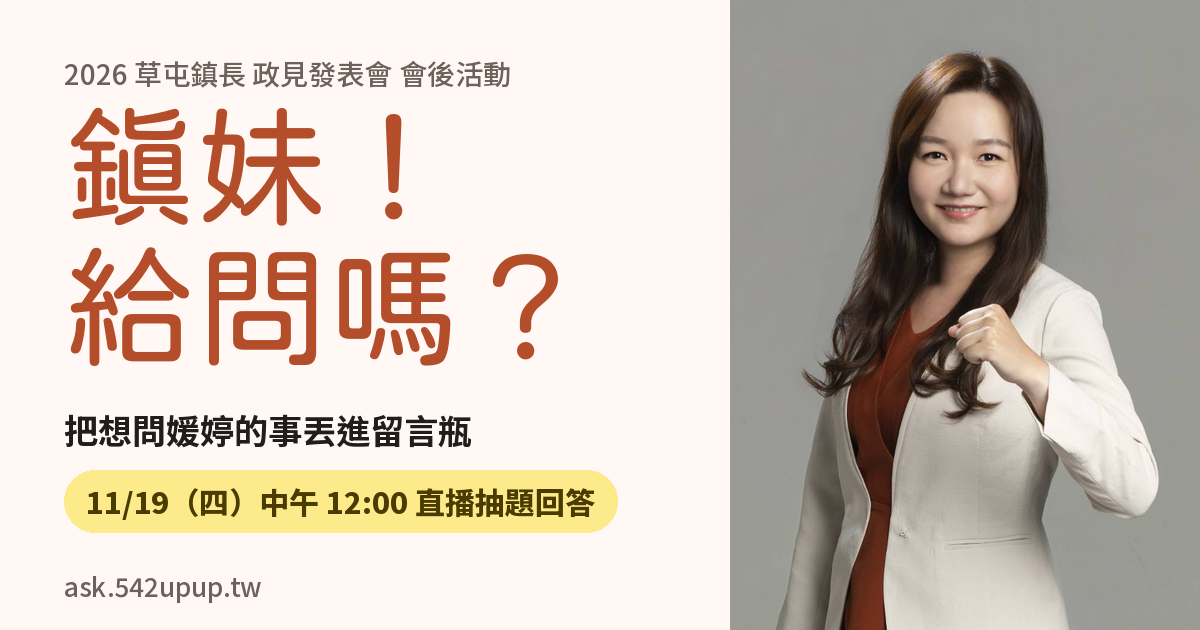
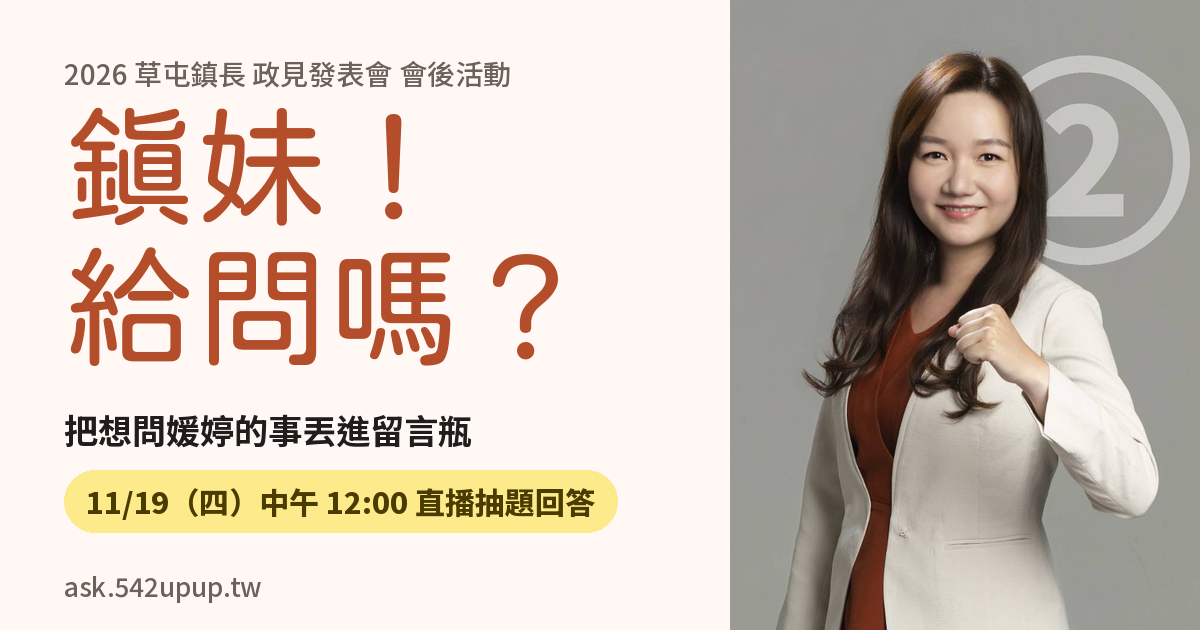
feat(ask): 分享預覽圖的形象照背景押號次②浮水印
用 GrabCut 把人物摳出來，白色②只畫在背景，放在右上方被頭髮半遮住，看起來在人物後面。

Claude-Session: https://claude.ai/code/session_018Xx2dF2Xmc5MBaDtE18Lzu

Changed region(s): [[0.8325, 0.0905, 1.0, 0.4222]]

diff --git a/scripts/make-ask-og.py b/scripts/make-ask-og.py
@@ -1,10 +1,13 @@
 """產生鎮妹給問嗎的分享預覽圖 ask-og.png（1200x630）。
 用法：python3 scripts/make-ask-og.py <candidate-hero.jpeg> ask-og.png
 照片取自 https://542upup.tw/candidate-hero.jpeg；字型用本機 ~/Library/Fonts 的 jf-openhuninn-2.1.ttf 與 NotoSansTC-VF.ttf。
+照片背景押號次②浮水印：用 OpenCV GrabCut 把人物摳出來，浮水印只畫在背景，看起來在人物後面。需要 numpy、opencv-python（AITeam venv 有）。
 """
 import sys
 from pathlib import Path
-from PIL import Image, ImageDraw, ImageFont
+import numpy as np
+import cv2
+from PIL import Image, ImageDraw, ImageFont, ImageFilter
 
 FONTS = Path.home() / 'Library/Fonts'
 HUNINN = str(FONTS / 'jf-openhuninn-2.1.ttf')
@@ -26,6 +29,41 @@ def noto(size, weight):
     return f
 
 
+def person_mask(rgb):
+    """GrabCut 摳出人物，回傳 L 模式遮罩（人物 255）。照片是單色灰背景，框住中間就夠準。"""
+    a = cv2.cvtColor(np.array(rgb), cv2.COLOR_RGB2BGR)
+    mask = np.zeros(a.shape[:2], np.uint8)
+    bgd = np.zeros((1, 65), np.float64)
+    fgd = np.zeros((1, 65), np.float64)
+    cv2.grabCut(a, mask, (100, 40, 760, a.shape[0] - 41), bgd, fgd, 6, cv2.GC_INIT_WITH_RECT)
+    fg = np.where((mask == 1) | (mask == 3), 255, 0).astype(np.uint8)
+    n, lab, stats, _ = cv2.connectedComponentsWithStats(fg)
+    fg = np.where(lab == 1 + np.argmax(stats[1:, cv2.CC_STAT_AREA]), 255, 0).astype(np.uint8)
+    inv = cv2.bitwise_not(fg)
+    n, lab, stats, _ = cv2.connectedComponentsWithStats(inv)
+    for i in range(1, n):  # 補掉人物內部被當成背景的洞（不碰邊的區塊）
+        x, y, w, h, _ = stats[i]
+        if x > 0 and y > 0 and x + w < inv.shape[1] and y + h < inv.shape[0]:
+            fg[lab == i] = 255
+    return Image.fromarray(fg).filter(ImageFilter.GaussianBlur(1.2))
+
+
+def number_watermark(photo, cx, cy, d, alpha):
+    """在照片背景畫白色號次②（圓圈＋2），人物擋住的部分不畫。座標以 photo 尺寸計。"""
+    layer = Image.new('L', photo.size, 0)
+    dr = ImageDraw.Draw(layer)
+    w = round(d * 0.075)
+    dr.ellipse((cx - d / 2 + w / 2, cy - d / 2 + w / 2, cx + d / 2 - w / 2, cy + d / 2 - w / 2), outline=255, width=w)
+    f = noto(round(d * 0.66), 900)
+    l, t, r, b = dr.textbbox((0, 0), '2', font=f)
+    dr.text((cx - (l + r) / 2, cy - (t + b) / 2), '2', font=f, fill=255)
+    fg = np.array(person_mask(photo)) / 255.0
+    a = (np.array(layer).astype(np.float32) * alpha * (1 - fg)).astype(np.uint8)
+    out = photo.copy()
+    out.paste(Image.new('RGB', photo.size, 'white'), (0, 0), Image.fromarray(a))
+    return out
+
+
 def main(photo_path, out_path):
     img = Image.new('RGB', (W, H), BG)
     d = ImageDraw.Draw(img)
@@ -36,7 +74,8 @@ def main(photo_path, out_path):
     crop_w = round(crop_h * PHOTO_W / H)
     cx = 870
     left = max(0, min(ph.width - crop_w, cx - crop_w // 2))
-    ph = ph.crop((left, 0, left + crop_w, crop_h)).resize((PHOTO_W, H), Image.LANCZOS)
+    ph = ph.crop((left, 0, left + crop_w, crop_h)).resize((PHOTO_W * 2, H * 2), Image.LANCZOS)
+    ph = number_watermark(ph, 355 * 2, 160 * 2, 226 * 2, 0.45).resize((PHOTO_W, H), Image.LANCZOS)
     img.paste(ph, (W - PHOTO_W, 0))
 
     x = 64
